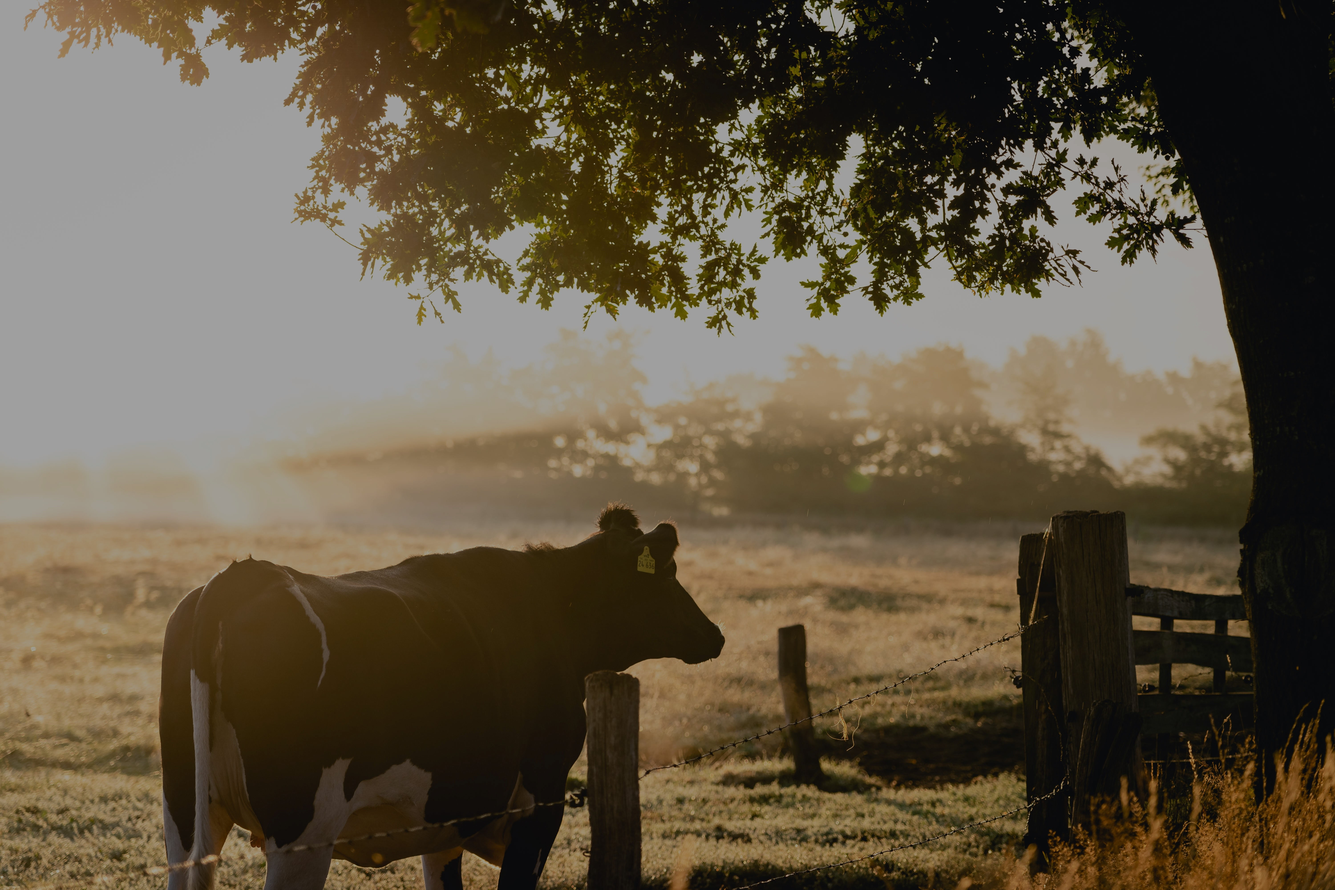
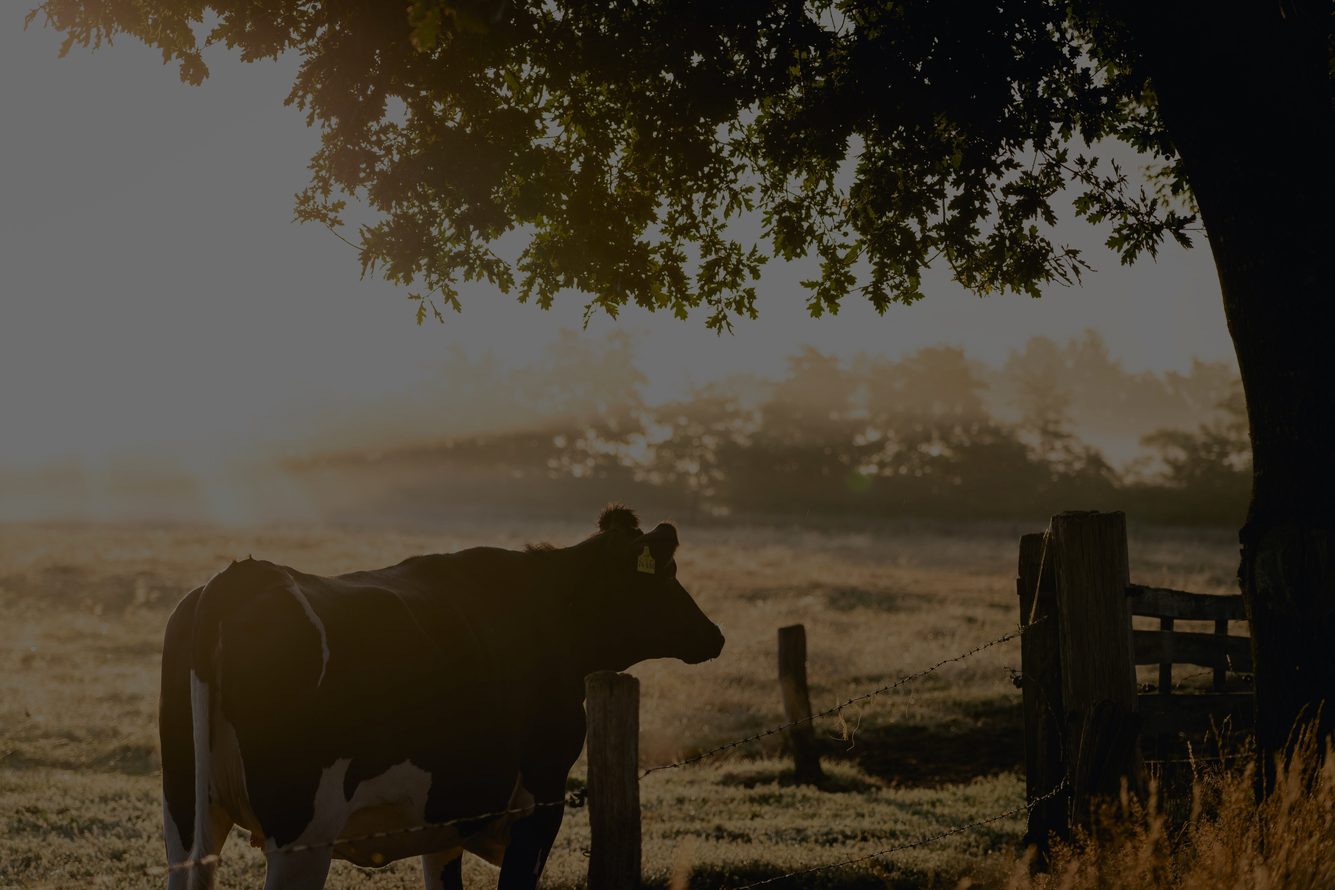
dashboard and blog

diff --git a/src/view/Blog.jsx b/src/view/Blog.jsx
@@ -1,20 +1,21 @@
 import React from 'react'
 import { Link } from 'react-router-dom'
 import ima1 from "../img/ima1.jpg"
-
+import Footer from "../components/Footer"
 
 
 const Blog = () => {
   return (
 
-    <div className='margen'>
-
+    <div className='margen img'>
+         
         <header className="bg-ligth 'Cabin', sans-serif"></header>
-        <strong className='display-6 mt-3'> 
+        <strong className='display-6 mt-4'> 
        Aquí informaremos las noticias más relavantes, las actualizaciones más recientes y
        los temas de interés general.  </strong>
       
       
+
       <div className="container md mt-4">
         <div className="row">
           <div className="col-4">
@@ -27,22 +28,55 @@ const Blog = () => {
              beneficiar a 1500 familias del sector rural en condición de pobreza con la entrega 
              una vaca preñada para, de esta manera, aportar en la reconstrucción del tejido social en el país.
             </p>
-            <p><Link to="https://www.fedegan.org.co/noticias/una-vaca-por-la-paz-continua-convocando-la-solidaridad-colombiana" className="link-opacity-100-hover">Ir al articulo completo</Link></p>
-
+            <p><Link to="https://www.fedegan.org.co/noticias/una-vaca-por-la-paz-continua-convocando-la-solidaridad-colombiana" 
+            className="link-light link-offset-2 link-underline-opacity-25 link-underline-opacity-100-hover">Ir al articulo completo</Link></p>
           </div>
+
           <div className="col-4">
             <strong className='h3'>Red de Innovación en Ganadería Sostenible de Cundinamarca</strong>
-            <p>El propósito de la investigación fue Incrementar el uso del conocimiento técnico - 
+            <p className='mt-4'>El propósito de la investigación fue Incrementar el uso del conocimiento técnico - 
               científico en ganadería bovina sostenible, en productores de 14 municipios del departamento 
               de Cundinamarca, mediante la implementación de tecnologías 4.0, la metodología de gestión 
               del conocimiento y el análisis de redes sociales de innovación.</p>
             <img src={ima1} className="w-50" alt="ima1" />
-            <p><Link to="https://www.fedegan.org.co/red-de-innovacion-en-ganaderia-sostenible-de-cundinamarca" className="link-opacity-100-hover">Conoce la investigación aquí</Link></p>
-
-          </div> 
+            <p><Link to="https://www.fedegan.org.co/red-de-innovacion-en-ganaderia-sostenible-de-cundinamarca" className="link-light link-offset-2 link-underline-opacity-25 link-underline-opacity-100-hover">Conoce la investigación aquí</Link></p>
+          </div>
 
       </div>
       </div>
+      <Footer />
+
+      <div className='d-md-none'>
+        
+        <div className='card border-3'>
+         
+          <div className='card-body'>
+            <p className='card-text'>
+             <strong className='h3' >Una Vaca por la Paz continúa convocando a la solidaridad colombiana</strong>
+        </p>
+        <p className='mt-4'>
+        Personalidades del sector bovino han aplaudido la iniciativa de la Fundación Colombia Ganadera
+        (FUNDAGÁN) de revivir su programa de corte social Una Vaca por la Paz, cuyo fin es
+         beneficiar a 1500 familias del sector rural en condición de pobreza con la entrega 
+         una vaca preñada para, de esta manera, aportar en la reconstrucción del tejido social en el país.
+        </p>
+        <p><Link to="https://www.fedegan.org.co/noticias/una-vaca-por-la-paz-continua-convocando-la-solidaridad-colombiana"
+           className="link-dark link-offset-2 link-underline-opacity-25 link-underline-opacity-100-hover">Ir al articulo completo</Link></p>    
+   
+  
+   <p className='card-text'>
+    <strong className='h3'>Red de Innovación en Ganadería Sostenible de Cundinamarca</strong>
+        <p className='mt-4'>El propósito de la investigación fue Incrementar el uso del conocimiento técnico - 
+          científico en ganadería bovina sostenible, en productores de 14 municipios del departamento 
+          de Cundinamarca, mediante la implementación de tecnologías 4.0, la metodología de gestión 
+          del conocimiento y el análisis de redes sociales de innovación.</p>
+        <img src={ima1} className="w-50" alt="ima1" />
+        <p><Link to="https://www.fedegan.org.co/red-de-innovacion-en-ganaderia-sostenible-de-cundinamarca" className="link-dark link-offset-2 link-underline-opacity-25 link-underline-opacity-100-hover">Conoce la investigación aquí</Link></p>
+    </p>
+
+    </div>
+     </div>
+</div>
       </div>
       )
 }

diff --git a/src/view/Login.jsx b/src/view/Login.jsx
@@ -1,0 +1,28 @@
+import React from 'react'
+
+const Login = () => {
+  return (
+    <div>
+    <div className='margen2'>
+      <form className="row g-3">
+  <div className="col-md-6">
+    <label for="inputEmail4" className="form-label">Email</label>
+    <input type="email" className="form-control" id="inputEmail4"/>
+  </div>
+  <div className="col-md-6">
+    <label for="inputPassword4" className="form-label">Password</label>
+    <input type="password" className="form-control" id="inputPassword4"/>
+  </div>
+
+  </form>
+
+
+
+
+
+    </div>
+    </div>
+  )
+}
+
+export default Login

diff --git a/src/view/Home.jsx b/src/view/Home.jsx
@@ -1,6 +1,6 @@
 import React from 'react'
 import Footer from '../components/Footer'
-
+import { Link } from 'react-router-dom'
 
 const Home = () => {
   return (
@@ -16,7 +16,7 @@ const Home = () => {
         </p>
 
         <div className='mt-5'>
-          <button type="button " className="btn btn-light">Iniciar</button>
+          <button type="button " className="btn btn-light"><Link to="Login">Iniciar</Link></button>
         
         </div>
 

diff --git a/src/App.js b/src/App.js
@@ -3,6 +3,7 @@ import './App.css';
 import Navbar from './components/Navbar';
 import Home from "../src/view/Home"
 import Blog from "./view/Blog"
+import Login from "./view/Login"
 
 function App() {
   return (
@@ -12,6 +13,7 @@ function App() {
       <Routes>
       <Route path='/' element={<Home/>} />
       <Route path='Blog' element={<Blog/>} />
+      <Route path='Login' element={<Login/>}/>
 
       </Routes>
 

diff --git a/src/components/estilo.css b/src/components/estilo.css
@@ -42,3 +42,18 @@ footer{
 .margen{
   margin-top: 100px;
 }
+.margen2{
+  margin-top: 150px;
+}
+
+.img{
+    
+  background-image: url('../img/cw.jpg');
+  background-size:cover;
+  background-position:center; 
+  background-repeat: no-repeat; 
+  width: 101%;
+  height:auto;
+  color:#ffffff;
+  
+}

diff --git a/src/components/Footer.jsx b/src/components/Footer.jsx
@@ -6,7 +6,7 @@ const Footer = () => {
     <div>
 
     <footer >
-   <div className="container-md mt-2">
+   <div className="container-md ">
 
    <i className="fa-brands fa-facebook fa-2xl me-3" ></i> 
    <Link to="https://www.facebook.com">Facebook </Link> <br></br> <br></br>

diff --git a/src/view/dashboard/home.jsx b/src/view/dashboard/home.jsx
@@ -1,0 +1,9 @@
+import React from 'react'
+
+const home = () => {
+  return (
+    <div>home</div>
+  )
+}
+
+export default home
